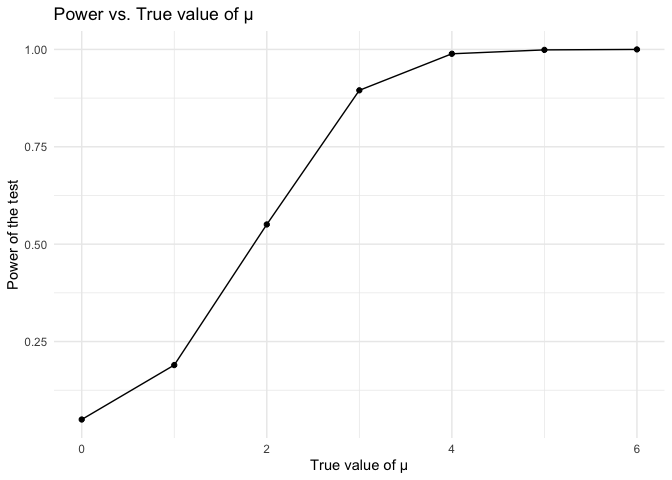
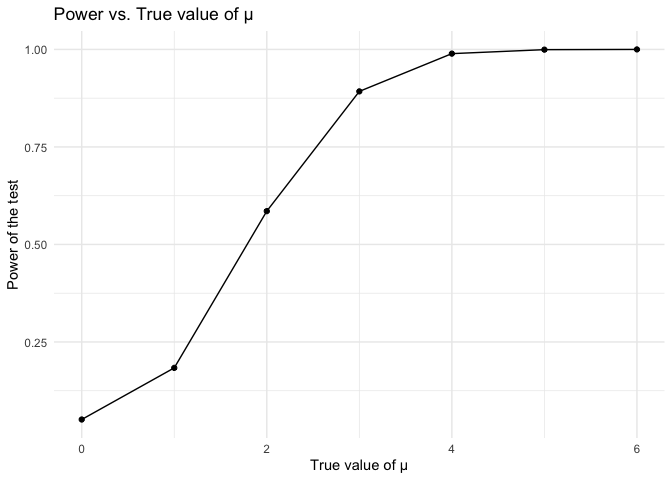
add some descriptios in problem 3 discussion

diff --git a/p8105_hw5_xw2962.md b/p8105_hw5_xw2962.md
@@ -302,16 +302,16 @@ print(simulation_results)
     ## # A tibble: 35,000 × 4
     ##    mu_hat p_value true_mu rejected
     ##     <dbl>   <dbl>   <dbl> <lgl>   
-    ##  1 -0.394   0.678       0 FALSE   
-    ##  2  1.11    0.275       0 FALSE   
-    ##  3 -0.536   0.508       0 FALSE   
-    ##  4 -0.159   0.851       0 FALSE   
-    ##  5  0.993   0.346       0 FALSE   
-    ##  6  0.528   0.627       0 FALSE   
-    ##  7 -0.504   0.607       0 FALSE   
-    ##  8 -1.28    0.199       0 FALSE   
-    ##  9 -0.540   0.600       0 FALSE   
-    ## 10 -1.33    0.156       0 FALSE   
+    ##  1  1.73   0.0662       0 FALSE   
+    ##  2 -0.283  0.781        0 FALSE   
+    ##  3 -0.977  0.247        0 FALSE   
+    ##  4 -0.340  0.698        0 FALSE   
+    ##  5  0.619  0.466        0 FALSE   
+    ##  6  1.71   0.0449       0 TRUE    
+    ##  7 -0.172  0.861        0 FALSE   
+    ##  8  0.290  0.765        0 FALSE   
+    ##  9 -1.33   0.137        0 FALSE   
+    ## 10  0.375  0.685        0 FALSE   
     ## # ℹ 34,990 more rows
 
 ``` r
@@ -328,13 +328,13 @@ print(power_and_estimates)
     ## # A tibble: 7 × 3
     ##   true_mu  power average_mu_hat
     ##     <dbl>  <dbl>          <dbl>
-    ## 1       0 0.0498      -0.000499
-    ## 2       1 0.190        1.01    
-    ## 3       2 0.551        1.97    
-    ## 4       3 0.895        3.01    
-    ## 5       4 0.989        4.00    
-    ## 6       5 0.999        4.98    
-    ## 7       6 1            6.00
+    ## 1       0 0.0512         0.0141
+    ## 2       1 0.184          0.992 
+    ## 3       2 0.585          2.01  
+    ## 4       3 0.892          3.01  
+    ## 5       4 0.989          4.01  
+    ## 6       5 0.999          5.02  
+    ## 7       6 1              6.03
 
 #### Make a plot showing the the power of the test on the y axis and the true value of μ on the x axis.
 
@@ -402,4 +402,8 @@ rejected is not always approximately equal to the true value of μ. This
 discrepancy is because when the null hypothesis is true (or the true
 effect is very small), rejecting the null hypothesis is often a result
 of sampling variability that leads to an overestimation of the true
-effect size.
+effect size. This could be due to a Type II error, which occurs when a
+false null hypothesis is not rejected. As the true mean (μ) increases,
+the rate of Type II error decreases, enhancing the test’s power. This
+results in a greater likelihood of rejecting the null hypothesis and
+yields a more precise estimation of the μ value.
